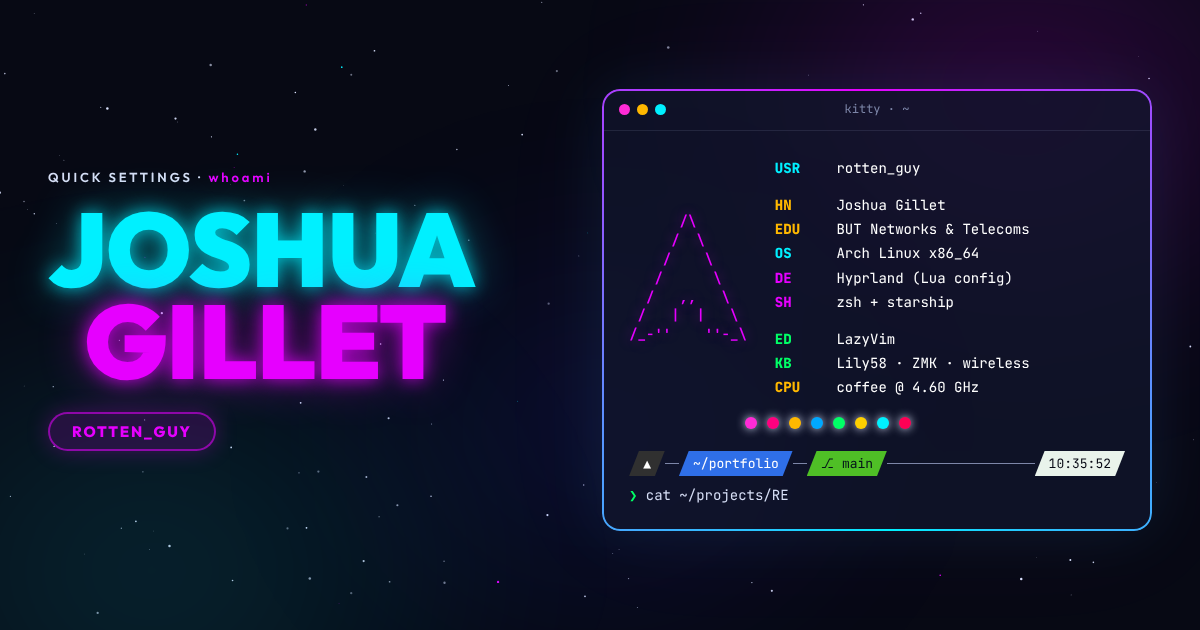
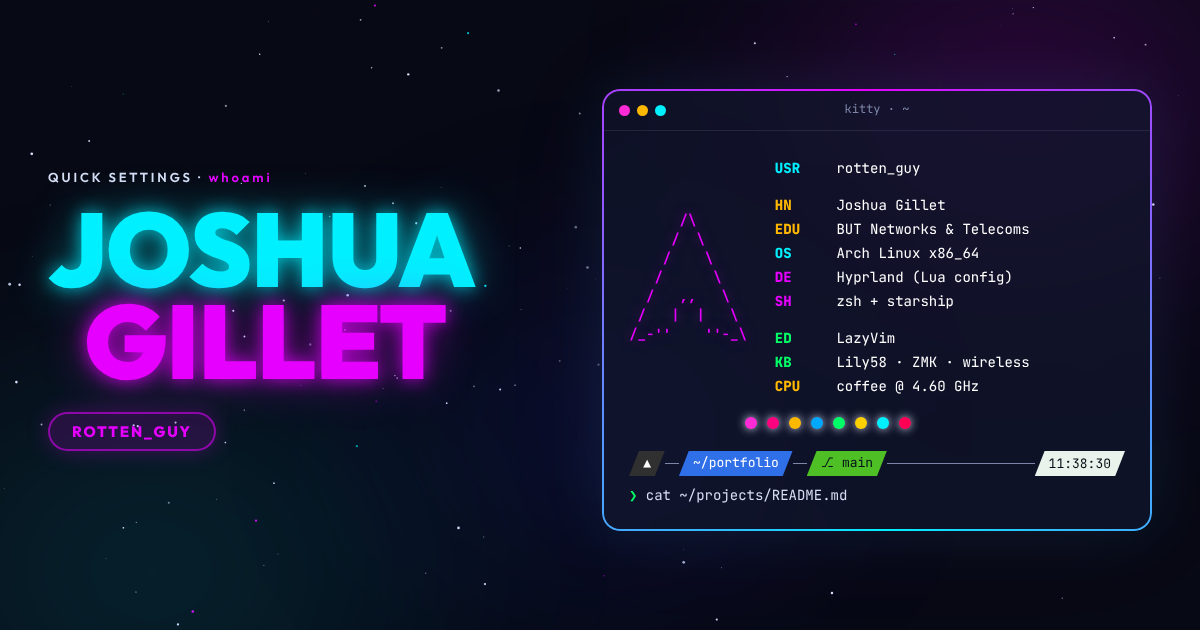
Portfolio: drop SAE 2.03, add Root-Me / LeetCode training
- Remove the SAE 2.03 project, its screenshots, data model and generator
- Remove the project filters (personal projects only now)
- New ~/training block: Root-Me (security) and LeetCode (algorithms), in progress
- History: dashed green HEAD entry for the training
- Retake the preview and link-preview images

Claude-Session: https://claude.ai/code/session_01Vemxhqh6ojpninigbSuBnp

diff --git a/index.html b/index.html
@@ -58,7 +58,7 @@
     <p class="lead reveal">
       Networks &amp; telecoms student at the <b>IUT of Montbéliard</b> (BUT R&amp;T).
       I like taking systems apart until I understand them, then putting them back together <i>exactly</i> the way I want:
-      Linux desktops, wireless keyboards, web apps and the networks they run on.
+      Linux desktops, wireless keyboards and the networks they run on. Next target: security challenges.
     </p>
     <div class="cta reveal">
       <a class="btn btn-cyan" href="#projects">VIEW PROJECTS <span aria-hidden="true">→</span></a>
@@ -109,15 +109,10 @@
   <div class="section-head reveal">
     <p class="path">~/projects</p>
     <h2 class="grad">PROJECTS</h2>
-    <div class="filters" role="tablist" aria-label="Filter projects">
-      <button class="chip active" data-filter="all" type="button">all</button>
-      <button class="chip" data-filter="personal" type="button">personal</button>
-      <button class="chip" data-filter="academic" type="button">academic</button>
-    </div>
   </div>
 
   <!-- dotfiles -->
-  <article class="project win reveal" data-kind="personal">
+  <article class="project win reveal">
     <div class="win-title"><span class="dots"><i></i><i></i><i></i></span><span>rotten_dotfiles · personal</span><span class="tag tag-cyan">featured</span></div>
     <div class="project-body">
       <div class="gallery" data-gallery>
@@ -154,7 +149,7 @@
   </article>
 
   <!-- lily58 -->
-  <article class="project win reveal" data-kind="personal">
+  <article class="project win reveal">
     <div class="win-title"><span class="dots"><i></i><i></i><i></i></span><span>rotten_lily58 · personal</span><span class="tag tag-magenta">firmware</span></div>
     <div class="project-body reverse">
       <div class="gallery" data-gallery>
@@ -187,38 +182,8 @@
     </div>
   </article>
 
-  <!-- SAE 2.03 -->
-  <article class="project win reveal" data-kind="academic">
-    <div class="win-title"><span class="dots"><i></i><i></i><i></i></span><span>SAE 2.03 · academic</span><span class="tag tag-yellow">BUT R&amp;T</span></div>
-    <div class="project-body">
-      <div class="gallery" data-gallery>
-        <div class="gallery-tabs" role="tablist">
-          <button class="active" type="button" data-src="assets/img/sae-schema.svg" data-alt="Relational data model of the carpooling app">data model</button>
-          <button type="button" data-src="assets/img/sae-accueil.webp" data-alt="Covoit home page once logged in">home</button>
-          <button type="button" data-src="assets/img/sae-sign.webp" data-alt="Covoit sign-up form">sign-up</button>
-          <button type="button" data-src="assets/img/sae-recherche.webp" data-alt="Covoit crew search page">search</button>
-        </div>
-        <button class="shot" type="button" data-zoom><img src="assets/img/sae-schema.svg" alt="Relational data model of the carpooling app" loading="lazy" width="1120" height="780"></button>
-      </div>
-      <div class="project-text">
-        <h3>🚗 Covoit · student carpooling</h3>
-        <p class="sub">SAE 2.03, first-year university project (spring 2026).</p>
-        <p>A web app that lets students of the Portes du Jura campus find each other and share rides to university: fewer costs, fewer cars, more people met. Full stack, from the relational schema to the pages, served by Apache on Ubuntu.</p>
-        <ul class="feat">
-          <li><b>Accounts</b>: sign-up with course, group and sub-group, passwords stored with <code>password_hash</code>, PHP sessions</li>
-          <li><b>Password reset</b> through a one-time 256-bit token (<code>random_bytes</code>) sent as a link</li>
-          <li><b>Offer a ride</b>: vehicle, free seats and weekly schedule</li>
-          <li><b>Search &amp; join a crew</b>, with a duplicate check, then confirm the outbound and return trips</li>
-          <li><b>11-table MySQL schema</b>, every query a PDO prepared statement (no SQL injection)</li>
-        </ul>
-        <div class="tags"><span>PHP</span><span>MySQL</span><span>PDO</span><span>SQL</span><span>HTML</span><span>CSS</span><span>JavaScript</span><span>Apache</span></div>
-        <a class="btn btn-cyan" href="https://github.com/PoUrRiTuRe/SAE_2-03" target="_blank" rel="noopener">OPEN REPOSITORY <span aria-hidden="true">→</span></a>
-      </div>
-    </div>
-  </article>
-
   <!-- write-ups -->
-  <div class="guides reveal" data-kind="personal">
+  <div class="guides reveal">
     <p class="path">~/dotfiles/docs · write-ups</p>
     <div class="guide-grid">
       <a class="guide win" href="https://github.com/PoUrRiTuRe/dotfiles/blob/main/docs/zmk-dongle.md" target="_blank" rel="noopener">
@@ -244,6 +209,25 @@
     <h2 class="grad">SKILLS</h2>
     <p class="hint">Magenta keys = the ones I use every day.</p>
   </div>
+  <!-- training -->
+  <div class="training">
+    <p class="path reveal">~/training · in progress</p>
+    <div class="train-grid">
+      <a class="train win reveal" href="https://www.root-me.org/" target="_blank" rel="noopener" data-rootme>
+        <span class="train-head"><span class="train-ico c-green">⚑</span><b>Root-Me</b><span class="tag tag-magenta">security</span></span>
+        <span class="train-text">Hacking challenges, one category at a time: web-server, network, cracking, forensics. The security side of a networks &amp; telecoms degree.</span>
+        <span class="train-bar"><i></i></span>
+        <span class="train-foot"><span>status: <b class="c-green">warming up</b></span><span>root-me.org →</span></span>
+      </a>
+      <a class="train win reveal" href="https://leetcode.com/pourriture" target="_blank" rel="noopener">
+        <span class="train-head"><span class="train-ico c-yellow">λ</span><b>LeetCode</b><span class="tag tag-yellow">algorithms</span></span>
+        <span class="train-text">Algorithms and data structures, solved in C and Python, to keep the problem-solving reflexes sharp.</span>
+        <span class="train-bar"><i></i></span>
+        <span class="train-foot"><span>status: <b class="c-yellow">warming up</b></span><span>leetcode.com/pourriture →</span></span>
+      </a>
+    </div>
+  </div>
+
   <div class="skill-grid">
     <div class="card reveal">
       <h3>Networks &amp; systems</h3>
@@ -285,10 +269,10 @@
     <h2 class="grad">HISTORY</h2>
   </div>
   <ol class="log">
+    <li class="reveal next"><span class="hash">HEAD →</span><time>next</time><b>wip(training):</b> Root-Me challenges and LeetCode problems, every week</li>
     <li class="reveal"><span class="hash">808efa0</span><time>2026-10</time><b>feat(lily58):</b> custom nice!view screens, bongo cat with glasses, thug-glasses easter egg</li>
     <li class="reveal"><span class="hash">0a72831</span><time>2026-10</time><b>feat(dotfiles):</b> per-host configs for a second machine (AMD desktop)</li>
     <li class="reveal"><span class="hash">486925a</span><time>2026-09</time><b>init(dotfiles):</b> a backup script that turned into the Nebula rice</li>
-    <li class="reveal merge"><span class="hash">51f4426</span><time>2026-04</time><b>feat(sae-2.03):</b> Covoit, student carpooling web app (PHP / MySQL)</li>
     <li class="reveal"><span class="hash">·······</span><time>2025-09</time><b>start:</b> BUT Networks &amp; Telecoms, IUT of Montbéliard</li>
     <li class="reveal root"><span class="hash">·······</span><time>2024-04</time><b>root:</b> <code>git init</code> · first GitHub account</li>
   </ol>

diff --git a/style.css b/style.css
@@ -189,16 +189,7 @@ h2 { margin: 0; font: 800 clamp(30px, 5vw, 52px)/1.05 var(--mono); letter-spacin
 @keyframes blink { 50% { opacity: 0; } }
 
 /* ───── projects ───── */
-.filters { display: flex; gap: 8px; margin-left: auto; }
-.chip {
-  padding: 6px 16px; border-radius: 999px; border: 1px solid rgba(0, 240, 255, .35); background: rgba(0, 240, 255, .05);
-  color: var(--dim); font-size: 13px; cursor: pointer; transition: all .25s;
-}
-.chip:hover { color: var(--cyan); border-color: var(--cyan); }
-.chip.active { color: #04121a; background: var(--cyan); border-color: var(--cyan); font-weight: 600; }
-
 .project { margin-bottom: 36px; transition: opacity .4s, transform .4s; }
-.project.hidden, .guides.hidden { display: none; }
 .tag { font-size: 11px; padding: 2px 10px; border-radius: 999px; letter-spacing: .06em; }
 .tag-cyan { color: var(--cyan); border: 1px solid rgba(0, 240, 255, .5); }
 .tag-magenta { color: var(--magenta); border: 1px solid rgba(230, 0, 255, .5); }
@@ -247,6 +238,27 @@ h2 { margin: 0; font: 800 clamp(30px, 5vw, 52px)/1.05 var(--mono); letter-spacin
 .guide b { color: #fff; font: 800 16px var(--display); }
 .guide > span:last-child { color: var(--dim); font-size: 12.5px; line-height: 1.55; }
 .g-ico { font-size: 22px; }
+
+/* ───── training: Root-Me / LeetCode ───── */
+.training { margin-bottom: 36px; }
+.training .path { margin-bottom: 14px; }
+.train-grid { display: grid; grid-template-columns: repeat(2, 1fr); gap: 18px; }
+.train { display: flex; flex-direction: column; gap: 12px; padding: 20px 22px; color: var(--text); transition: transform .25s; }
+.train:hover { color: var(--text); transform: translateY(-4px); }
+.train-head { display: flex; align-items: center; gap: 12px; }
+.train-head b { font: 800 22px var(--display); color: #fff; }
+.train-head .tag { margin-left: auto; }
+.train-ico { display: grid; place-items: center; width: 38px; height: 38px; border-radius: 10px; font: 800 20px var(--mono); background: rgba(7, 9, 20, .7); border: 1px solid var(--line); }
+.train-text { flex: 1; color: var(--dim); font-size: 13.5px; }
+.train-bar { position: relative; height: 8px; border-radius: 999px; overflow: hidden; background: rgba(7, 9, 20, .7); border: 1px solid var(--line); }
+.train-bar i { position: absolute; inset: 0; width: 8%; border-radius: inherit; background: linear-gradient(90deg, var(--cyan), var(--magenta)); box-shadow: 0 0 12px rgba(0, 240, 255, .6); }
+.train-bar i::after { content: ""; position: absolute; inset: 0; background: repeating-linear-gradient(-45deg, transparent 0 6px, rgba(255, 255, 255, .25) 6px 12px); animation: stripes 1s linear infinite; }
+@keyframes stripes { to { background-position: 17px 0; } }
+.train-foot { display: flex; justify-content: space-between; gap: 12px; font-size: 12px; color: var(--dim); }
+.train-foot > span:last-child { color: var(--cyan); }
+.log li.next::before { border-style: dashed; border-color: var(--green); box-shadow: 0 0 10px rgba(0, 255, 102, .5); }
+.log li.next .hash { color: var(--green); }
+.log li.next b { color: var(--green); }
 
 /* ───── skills: keycaps like the cheatsheet ───── */
 .skill-grid { display: grid; grid-template-columns: repeat(2, 1fr); gap: 18px; }
@@ -337,8 +349,7 @@ footer p { margin: 4px 0; }
   .bar { grid-template-columns: 1fr auto; }
   .clock, .pill-dim, .pill-cyan span { display: none; }
   .ws { padding: 0 9px; }
-  .filters { margin-left: 0; }
-  .skill-grid, .guide-grid { grid-template-columns: 1fr; }
+  .skill-grid, .guide-grid, .train-grid { grid-template-columns: 1fr; }
   .project-body { padding: 18px; gap: 24px; }
   .stats { grid-template-columns: repeat(2, 1fr); }
   .term { padding: 18px 16px; font-size: 12.5px; }

diff --git a/script.js b/script.js
@@ -101,16 +101,6 @@ const sections = $$("main > section[data-ws]");
   $$(".reveal").forEach((el) => io.observe(el));
 })();
 
-/* ───── project filters ───── */
-$$(".chip").forEach((chip) => chip.addEventListener("click", () => {
-  $$(".chip").forEach((c) => c.classList.toggle("active", c === chip));
-  const f = chip.dataset.filter;
-  $$("#projects [data-kind]").forEach((p) => {
-    p.classList.toggle("hidden", f !== "all" && p.dataset.kind !== f);
-    p.classList.add("in");
-  });
-}));
-
 /* ───── galleries ───── */
 $$("[data-gallery]").forEach((gallery) => {
   const img = $(".shot img", gallery);
@@ -155,12 +145,12 @@ const menu = (() => {
     { label: "contact", hint: "workspace 5", go: "#contact" },
     { label: "rotten_dotfiles", hint: "repo · Hyprland rice", url: "https://github.com/PoUrRiTuRe/dotfiles" },
     { label: "rotten Lily58", hint: "repo · ZMK firmware", url: "https://github.com/PoUrRiTuRe/rotten_lily58_keymap_config" },
-    { label: "SAE 2.03 · Covoit", hint: "repo · PHP / MySQL", url: "https://github.com/PoUrRiTuRe/SAE_2-03" },
     { label: "ZMK dongle guide", hint: "write-up", url: "https://github.com/PoUrRiTuRe/dotfiles/blob/main/docs/zmk-dongle.md" },
     { label: "IKEv2 VPN on Arch", hint: "write-up", url: "https://github.com/PoUrRiTuRe/dotfiles/blob/main/docs/vpn-ikev2-eap.md" },
     { label: "Tablet as a monitor", hint: "write-up", url: "https://github.com/PoUrRiTuRe/dotfiles/blob/main/docs/tablet-screen.md" },
     { label: "GitHub profile", hint: "link", url: "https://github.com/PoUrRiTuRe" },
-    { label: "LeetCode", hint: "link", url: "https://leetcode.com/pourriture" },
+    { label: "Root-Me", hint: "training · security", url: "https://www.root-me.org/" },
+    { label: "LeetCode", hint: "training · algorithms", url: "https://leetcode.com/pourriture" },
     { label: "source of this site", hint: "repo", url: "https://github.com/PoUrRiTuRe/PoUrRiTuRe.github.io" },
   ];
   let shown = items, sel = 0;

diff --git a/README.md b/README.md
@@ -25,7 +25,7 @@
 | 🐱 | **kitty + fastfetch card** | Arch logo in magenta, colored keys, palette dots and a starship prompt that types real commands |
 | 🌈 | **Animated borders** | The Hyprland border: cyan → magenta gradient rotating at a constant speed, fading in when a card gets focus or the mouse |
 | ⌨ | **`SUPER + K` menu** | Press `K` anywhere: a fuzzel-like menu to jump to a section, a project or a link (`↑ ↓`, `Enter`, `Esc`) |
-| 🗂 | **Project windows** | Each project is a window with a screenshot gallery (tabs + lightbox), features, stats and tags. Filter: all / personal / academic |
+| 🗂 | **Project windows** | Each project is a window with a screenshot gallery (tabs + lightbox), features, stats and tags |
 | 🧩 | **Keycap skills** | Skills are drawn like the shortcut cheatsheet keys; typing a letter presses the matching keycaps |
 | 🌌 | **Starfield** | Twinkling stars on a canvas, with a few cyan and magenta ones, over slowly drifting nebula clouds |
 | 📜 | **`git log` history** | Timeline with real commit hashes from the projects |
@@ -40,8 +40,8 @@
 |---|---|---|
 | [**rotten_dotfiles**](https://github.com/PoUrRiTuRe/dotfiles) | Personal | Arch Linux, Hyprland (Lua), Bash, Python, QML, systemd, PAM, PipeWire |
 | [**rotten Lily58**](https://github.com/PoUrRiTuRe/rotten_lily58_keymap_config) | Personal | C, Zephyr RTOS, ZMK, Devicetree, Python, GitHub Actions |
-| [**SAE 2.03 · Covoit**](https://github.com/PoUrRiTuRe/SAE_2-03) | Academic (BUT R&T) | PHP, MySQL, PDO, HTML / CSS / JS, Apache |
 | Write-ups | Personal | ZMK dongle, IKEv2 VPN, tablet as a monitor, Arch notes (in the dotfiles `docs/`) |
+| Training | In progress | [Root-Me](https://www.root-me.org/) (security challenges) · [LeetCode](https://leetcode.com/pourriture) (algorithms) |
 
 ---
 
@@ -71,8 +71,6 @@ PoUrRiTuRe.github.io/
 ├── script.js                   # starfield, clock, workspaces, SUPER + K menu, galleries
 ├── 404.html
 ├── .nojekyll                   # serve files as they are, no Jekyll
-├── scripts/
-│   └── make-schema.py          # draws assets/img/sae-schema.svg
 └── assets/
     ├── icons/favicon.svg
     └── img/                    # screenshots (webp), keymap SVGs, screens GIF, preview + og image
@@ -99,10 +97,10 @@ GitHub Pages serves the `main` branch root: *Settings* → *Pages* → *Deploy f
 
 - **A project**: copy one `<article class="project win">` block in `index.html`. Gallery tabs take `data-src` / `data-alt`; the first tab must match the `<img>` below it.
 - **Screenshots**: convert to WebP, ~1600 px wide (`convert in.png -resize 1600x -quality 82 out.webp`), into `assets/img/`.
-- **SAE data model**: edit `TABLES` / `LINKS` in `scripts/make-schema.py`, then `python3 scripts/make-schema.py`.
+- **Training**: the `.train` cards in the skills section; the bar width is `.train-bar i { width }` in `style.css`.
 - **`SUPER + K` entries**: the `items` list in `script.js`.
 - **Skills**: `<span class="key">` (cyan) or `<span class="key super">` (magenta = daily use).
-- **History**: `<li>` entries of `.log` in `index.html` (`merge` = magenta dot, `root` = yellow dot).
+- **History**: `<li>` entries of `.log` in `index.html` (`merge` = magenta dot, `root` = yellow dot, `next` = dashed green dot for what is in progress).
 - **Preview images**: `assets/img/preview.webp` (1440 × 900) and `assets/img/og.png` (1200 × 630, link previews) are screenshots of the hero; retake them after a visual change.
 
 ---

diff --git a/CLAUDE.md b/CLAUDE.md
@@ -13,7 +13,7 @@ Personal portfolio of Joshua Gillet (`rotten_guy`, GitHub `PoUrRiTuRe`), served 
 3. **Nebula palette only**: use the CSS variables in `:root` (`--cyan`, `--magenta`, `--text`, `--dim`…), never new accent colors. New UI should look like a piece of the rice (top bar, greeter, kitty, fuzzel, cheatsheet keys).
 4. **Facts only**: project descriptions, numbers and commit hashes come from the real repositories. No invented skills, levels, dates or experience.
 5. **No private information**: no home address, phone number or private email.
-6. **Images**: WebP for screenshots (~1600 px wide), SVG for diagrams. Generated pictures have their generator in `scripts/`.
+6. **Images**: WebP for screenshots (~1600 px wide), SVG for diagrams. Generated pictures keep their generator next to them or in `scripts/`.
 7. **Check before committing**: open the page at desktop and phone width (390 px), no horizontal scroll, no console errors, `prefers-reduced-motion` still readable.
 8. After a change that affects the look, retake `assets/img/preview.webp` and `assets/img/og.png`, and update `README.md`.
 
